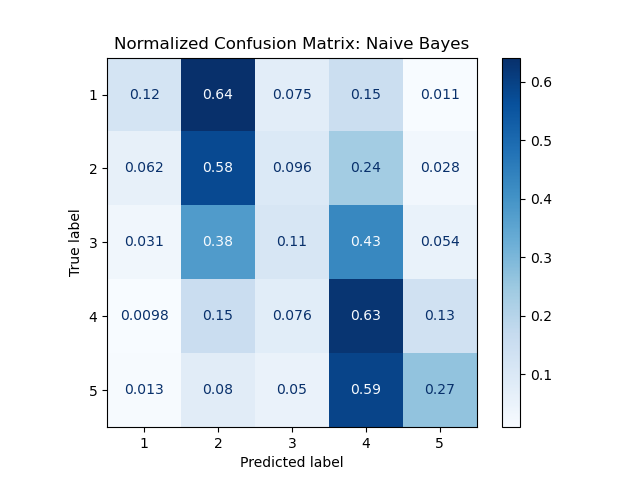
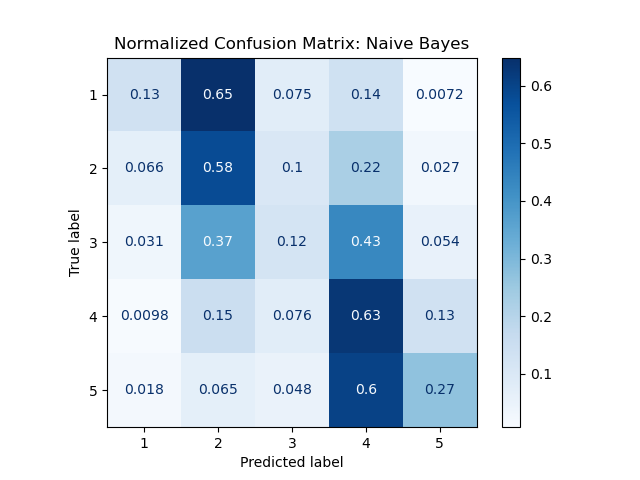
preprocessing for naive bayes

diff --git a/naive_bayes.py b/naive_bayes.py
@@ -5,20 +5,37 @@ from sklearn.metrics import ConfusionMatrixDisplay
 import matplotlib.pyplot as plt
 import pickle as pk
 import time
-train_x = pk.load(open( "./data/train_x.pk", "rb" ))
-train_y = pk.load(open( "./data/train_y.pk", "rb" ))
+import re
+import numpy as np
 
-test_x = pk.load(open( "./data/test_x.pk", "rb" ))
-test_y = pk.load(open( "./data/test_y.pk", "rb" ))
+def preprocess(list_of_sents):
+    re_str = re.compile(r"(\b((n't)|(not)|(no)|(never))\s+)")
+    return [re.sub(re_str, "\\1NOT_", sent) for sent in list_of_sents]
 
-t1=time.time()
+""" Preprocess for sentiment analysis https://web.stanford.edu/~jurafsky/slp3/4.pdf
+1. binaryNB on the document level (remove duplicates in same review)
+2. replace "didn't like" with "didn't "NOT"" """
+
+train_x = preprocess(pk.load(open("./data/train_x.pk", "rb")))
+train_y = pk.load(open("./data/train_y.pk", "rb"))
+
+test_x = preprocess(pk.load(open("./data/test_x.pk", "rb")))
+test_y = pk.load(open("./data/test_y.pk", "rb"))
+
+t1 = time.time()
+
 vec = CountVectorizer(stop_words='english')
+
+
+
 train_x = vec.fit_transform(train_x).toarray()
+train_x = np.where(train_x > 1, 1, train_x)
 test_x = vec.transform(test_x).toarray()
+test_x = np.where(test_x > 1, 1, test_x)
 nb_model = MultinomialNB()
 nb_model.fit(train_x, train_y)
 
-#print(model.score(test_x, test_y)) #accuracy: 0.3932126696832579
+# print(model.score(test_x, test_y)) #accuracy: 0.3932126696832579
 pred_y = nb_model.predict(test_x)
 print(classification_report(test_y, pred_y))
 
@@ -26,7 +43,7 @@ disp = ConfusionMatrixDisplay.from_estimator(
     nb_model,
     test_x,
     test_y,
-    display_labels=list(range(1,6)),
+    display_labels=list(range(1, 6)),
     cmap=plt.cm.Blues,
     normalize="true",
 )

diff --git a/preprocess_sst.py b/preprocess_sst.py
@@ -1,5 +1,7 @@
 import sst.load_sst
 import pickle as pk
+import re
+
 train_sst = sst.load_sst.get_train()
 train_x = list(train_sst.keys())
 train_y = list(train_sst.values())

diff --git a/sst/load_sst.py b/sst/load_sst.py
@@ -21,4 +21,6 @@ def get_test():
 def get_dev():
     return get_label_sent_for_category("dev")
 
+
+
 #get_train()
